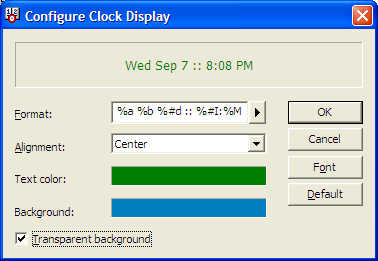
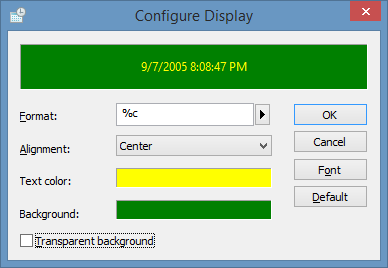
Timekeeper: Updated screenshots and help.
git-svn-id: svn://localhost/trunk@3024 11f071c2-d427-764a-a8f1-537ef3230c9f

diff --git a/help/timekeeper.htm b/help/timekeeper.htm
@@ -30,9 +30,8 @@ DIV#id12noon
 	margin-top:			0.7em;
 
 	font-family:		Book Antiqua, Times New Roman, serif;
-	font-size:			300%;
+	font-size:			350%;
 	color:				#336699;
-	text-decoration:	underline;
 	font-weight:		bold;
 }
 
@@ -100,12 +99,10 @@ P.clsCalloutLeft
 
 <body>
 
-<a href="http://www.12noon.com"><img id="idLogo" src="12noon-89x97.gif" width="89" height="97" border="0"/></a>
+<a href="http://12noon.com"><img id="idLogo" src="12noon-89x97.gif" border="0"/></a>
 <div id="id12noon">12noon</div><br style="clear: left;"/>
 
 <h1>Welcome to Timekeeper</h1>
-
-<p><img class="clsRight" src="tk_vert.png" width="198" height="466" title="Timekeeper vertical screenshot"/></p>
 
 <p>
 The 12noon Timekeeper provides you with more information
@@ -116,14 +113,9 @@ Timekeeper also gives you quick and easy access to a calendar.
 
 <p>Timekeeper conveniently displays the date and time in whatever format you
 want on your Windows taskbar.
-It can also display the date and time on any edge of your desktop
-or even &ldquo;float&rdquo; on your desktop.
+It can also display the date and time on any edge of your desktop.
 Timekeeper doesn&rsquo;t obscure what you&rsquo;re working on or use
 valuable screen real estate.</p>
-
-
-<p class="clsCalloutLeft">Timekeeper supports Windows&nbsp;7, Vista, and XP.</p>
-
 
 <p>If you hover the mouse over the clock display, Timekeeper displays the
 date and time in a tooltip (formatted in the &ldquo;long format&rdquo; for the current locale).</p>
@@ -132,30 +124,27 @@ date and time in a tooltip (formatted in the &ldquo;long format&rdquo; for the c
 The first example shows how Timekeeper can display information on multiple lines.</p>
 
 <p>
-	<img src="tk_trim.png" width="237" height="40" title="Timekeeper horizontal screenshot"/>
-	<img src="tk_multiline.png" width="162" height="73" border="1" title="Timekeeper multiline screenshot"/>
-	<img src="tk_wide.png" width="508" height="39" title="Timekeeper wide screenshot"/>
+	<img src="timekeeper.png" title="Timekeeper horizontal screenshot"/>
+	<img src="tk_multiline.png" title="Timekeeper multiline screenshot"/>
+	<img src="tk_multiline_red.png" title="Timekeeper multiline red screenshot"/>
 </p>
 
 <p>Timekeeper displays its information on your main Windows desktop toolbar by default.
 You can make Timekeeper wider or narrower by dragging the &ldquo;grip&rdquo; control to
-left of the red 12noon logo. When you hover the cursor over the grip
+left of the clock. When you hover the cursor over the grip
 control, the cursor will change to a two-headed-arrow resize cursor to indicate
 that you can now resize the toolbar.</p>
 
-<p><img src="tk_float.png" width="293" height="136" border="1" title="Timekeeper floating screenshot"/></p>
-
-<p>You can drag Timekeeper somewhere else on the deskband, change it to a vertical
-deskband, or even make it a separate window.
+<p>You can drag Timekeeper somewhere else on the deskband or change it to a vertical deskband.
 To move the Timekeeper toolbar, click and drag it by the
-left of the red 12noon logo. When you click, the cursor will change to a
+left of the clock. When you click, the cursor will change to a
 four-headed-arrow move cursor to indicate that you can now drag the toolbar.</p>
 
 
 <h2>Enable Timekeeper</h2>
 
-<img class="clsRight" src="toolbars.png" width="327" height="191" title="Screenshot of how to enable the 12noon Timekeeper"/>
-<p class="clsHowTo">To <span class="clsHighlight">enable or disable the 12noon Timekeeper</span>,
+<img class="clsRight" src="toolbars.png" title="Screenshot of how to enable the 12noon Timekeeper"/>
+<p class="clsHowTo">To <span class="clsHighlight">enable or disable Timekeeper</span>,
 right-click on an empty spot on your toolbar. Select Toolbars and click
 on &quot;12noon Timekeeper.&quot;</p>
 <br/>
@@ -167,7 +156,7 @@ on &quot;12noon Timekeeper.&quot;</p>
 formats, text, font, text color, background color, and alignment.
 This option is available on the context menu. (See below.)</p>
 
-<p><img src="configure.png" title="Timekeeper configure screenshot" width="378" height="261"/></p>
+<p><img src="configure.png" title="Timekeeper configure screenshot" /></p>
 
 <p>The <b>Format</b> field is where you specify what information Timekeeper will display.
 Click the arrow to the right of the field to see the special characters that you
@@ -184,7 +173,7 @@ You can select a transparent background for the clock by checking <b>Transparent
 
 <h2>Calendar</h2>
 
-<p><img class="clsRight" src="calendar_1x3.png" title="Timekeeper calendar screenshot" width="189" height="501"/></p>
+<p><img class="clsRight" src="tk_calendar_1x3.png" title="Timekeeper calendar screenshot" /></p>
 
 <p>Timekeeper can display a calendar so that you can easily plan meetings, vacations,
 or see when you should make your next haircut appointment. Click the
@@ -220,16 +209,16 @@ remembering the calendar&rsquo;s position, and remembering the calendar&rsquo;s 
 The band must be closed and re-opened to use the new size. This is a Windows limitation.</p>
 
 <p>
-	<img src="calendar_2x1.png" title="Timekeeper calendar screenshot" width="366" height="187"/>
-	<img src="calendar_2x2.png" title="Timekeeper calendar screenshot" width="366" height="344"/>
-	<img src="calendar_3x1.png" title="Timekeeper calendar screenshot" width="543" height="187"/>
+	<img src="tk_calendar_2x1.png" title="Timekeeper calendar screenshot" />
+	<img src="tk_calendar_2x2.png" title="Timekeeper calendar screenshot" />
+	<img src="tk_calendar_3x1.png" title="Timekeeper calendar screenshot" />
 </p>
 
 
 
 <h2>More Options</h2>
 
-<p><img class="clsRight" src="context_menu.png" title="Timekeeper context menu" width="165" height="392"/></p>
+<p><img class="clsRight" src="context_menu.png" title="Timekeeper context menu" /></p>
 <p class="clsHowTo">To access the <span class="clsHighlight">context menu</span>,
 right-click on the 12noon Timekeeper. The menu allows you to
 perform the following functions:</p>
@@ -249,21 +238,6 @@ perform the following functions:</p>
 For example, you can use the <i>Show Title</i> command to hide the desk band's "Timekeeper" title.</p>
 <br/>
 
-<img class="clsRight" src="about.png" />
-<p class="clsHowTo">From the <span class="clsHighlight">About</span> window, you can:</p>
-<ul>
-	<li>Visit the 12noon Web site.</li>
-	<li>Contact support.</li>
-</ul>
-<br/>
-
-<img class="clsRight" src="taskbar_props.png" title="Screenshot of how to hide the Windows clock" width="404" height="455"/>
-<p class="clsHowTo">To <span class="clsHighlight">hide the Windows clock</span>,
-right-click on an empty spot on your toolbar. Select Properties and uncheck the
-&quot;Show clock&quot; option.</p>
-<br/>
-
-
 <h2>Known Issues</h2>
 
 If the size of the calendar font is made smaller, the calendar is not resized.
@@ -273,7 +247,7 @@ The band must be closed and re-opened to see the new size. This is a Windows lim
 <h2>Contact 12noon</h2>
 
 <dl>
-	<dt><a href="http://www.12noon.com">12noon.com</a></dt>
+	<dt><a href="http://12noon.com">12noon.com</a></dt>
 	<dt><a href="mailto:sales@12noon.com">sales@12noon.com</a></dt>
 </dl>
 
